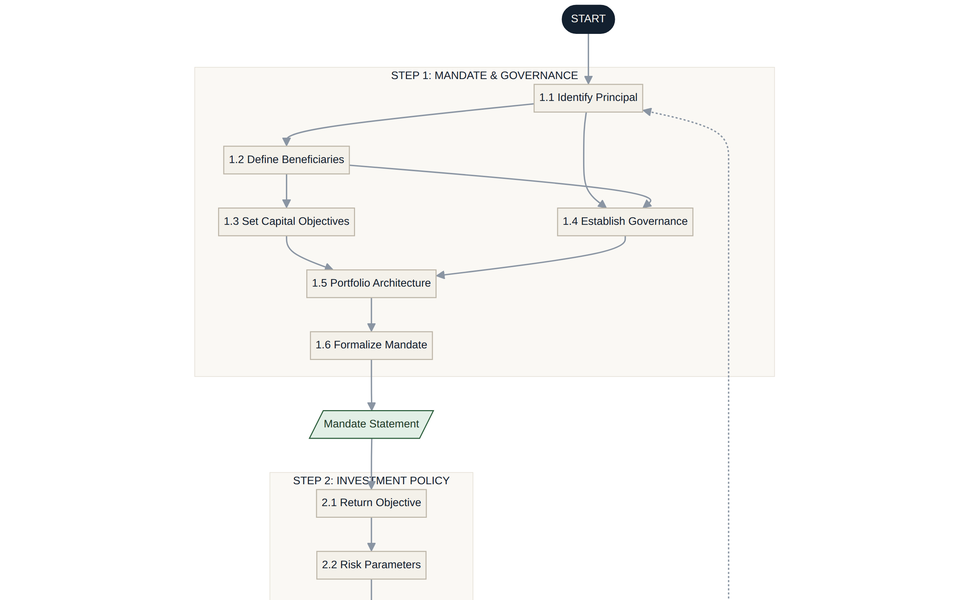
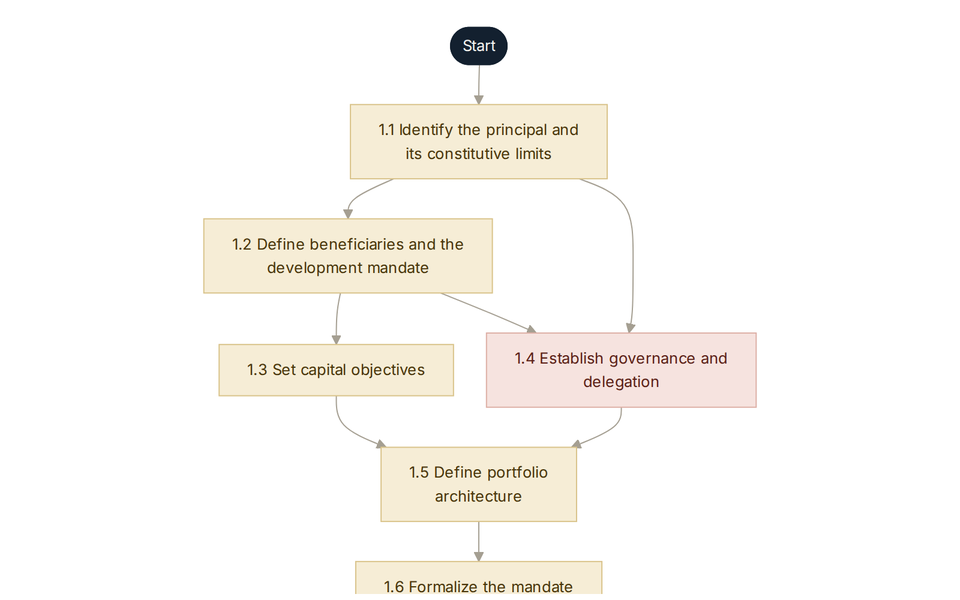
Update the landing page for the v2 maps

diff --git a/index.html b/index.html
@@ -78,23 +78,22 @@ footer p { margin:0; max-width:640px; }
       <div class="eyebrow">Infrastructure, PPPs and portfolio work</div>
       <h1>Investment work, mapped for AI</h1>
       <p class="subtitle">How deals and portfolios actually get done, step by step, with a clear line between what a model can do and what stays with people.</p>
-      <p class="lede">I built these maps at SpaceXAI, where I lead the portfolio management pod. Each one is written so an AI agent can follow it as a skills file. Together they cover more than 500 mapped steps and tasks.</p>
-      <div class="proof"><span class="l">Tested</span>The EM infrastructure portfolio map was turned into a skills file, and a frontier model followed it through most of the process. That design is now the basis of an ongoing SpaceXAI project.</div>
+      <p class="lede">I built these maps at SpaceXAI, where I lead the portfolio management pod. Each one is written so an AI agent can follow it as a skills file. In October 2026 every map was revised against a published standard, with an owner and a citation on every task. Together they cover more than 600 mapped tasks.</p>
+      <div class="proof"><span class="l">Tested</span>The first version of the EM infrastructure portfolio map was turned into a skills file, and a frontier model followed it through most of the process. That design is now the basis of an ongoing SpaceXAI project.</div>
     </div>
     <aside class="split" aria-label="Example of how work is split">
       <div class="k">How each step is classified</div>
-      <h3>Behind one infrastructure IC memo, 231 tasks</h3>
-      <div class="bar" role="img" aria-label="85 model-capable, 82 hybrid, 14 human-only, 27 decision points, 23 skip paths">
-        <i style="flex:85;background:var(--g)"></i><i style="flex:82;background:var(--y)"></i><i style="flex:14;background:var(--r)"></i><i style="flex:27;background:var(--d)"></i><i style="flex:23;background:var(--s)"></i>
+      <h3>Behind one infrastructure IC memo, 216 tasks and 31 decision gates</h3>
+      <div class="bar" role="img" aria-label="70 model-run, 129 model drafts and a person signs, 17 human-only, 31 decision gates">
+        <i style="flex:70;background:var(--g)"></i><i style="flex:129;background:var(--y)"></i><i style="flex:17;background:var(--r)"></i><i style="flex:31;background:var(--d)"></i>
       </div>
       <ul>
-        <li><span class="dot" style="background:var(--g)"></span><span>A model can do it alone</span><b>85</b></li>
-        <li><span class="dot" style="background:var(--y)"></span><span>A model drafts, a person checks</span><b>82</b></li>
-        <li><span class="dot" style="background:var(--r)"></span><span>Stays with people</span><b>14</b></li>
-        <li><span class="dot" style="background:var(--d)"></span><span>Decision points</span><b>27</b></li>
-        <li><span class="dot" style="background:var(--s)"></span><span>Skip paths when a workstream does not apply</span><b>23</b></li>
+        <li><span class="dot" style="background:var(--g)"></span><span>A model runs it, the owner samples the output</span><b>70</b></li>
+        <li><span class="dot" style="background:var(--y)"></span><span>A model drafts, the owner reviews and signs</span><b>129</b></li>
+        <li><span class="dot" style="background:var(--r)"></span><span>Stays with people</span><b>17</b></li>
+        <li><span class="dot" style="background:var(--d)"></span><span>Decision gates, each with a named owner</span><b>31</b></li>
       </ul>
-      <div class="src">From the IC memo production map. The split is a design estimate, not a measured result.</div>
+      <div class="src">From the IC memo production map. The recommendation stays with the deal lead and the committee decides. The split is a design estimate, not a measured result.</div>
     </aside>
   </div>
 
@@ -106,8 +105,8 @@ footer p { margin:0; max-width:640px; }
         <div class="body">
           <div class="k">Investment committee</div>
           <h3>IC memo production</h3>
-          <p>Everything behind an infrastructure investment committee memo, split into legal, financial, technical and ESG, and commercial workstreams.</p>
-          <div class="nums"><span><b>231</b>tasks</span><span><b>27</b>decision points</span><span><b>7</b>sync points</span></div>
+          <p>Everything behind an infrastructure investment committee memo, from integrity screening to the committee decision, mapped against the IFC Performance Standards and the Equator Principles.</p>
+          <div class="nums"><span><b>216</b>tasks</span><span><b>31</b>decision gates</span><span><b>11</b>sync points</span></div>
         </div>
       </a>
       <a class="fc" href="https://mindtensorml.github.io/ppp-bid-pipeline/">
@@ -124,8 +123,8 @@ footer p { margin:0; max-width:640px; }
         <div class="body">
           <div class="k">Emerging markets</div>
           <h3>EM infrastructure portfolio</h3>
-          <p>Running an emerging-market infrastructure portfolio from mandate to watchlist, with screening under the IFC Performance Standards.</p>
-          <div class="nums"><span><b>8</b>steps</span><span><b>5</b>gates</span><span><b>52</b>process nodes</span></div>
+          <p>Running an emerging-market infrastructure portfolio from mandate to watchlist and exit, mapped against the IFC Performance Standards and the Operating Principles for Impact Management.</p>
+          <div class="nums"><span><b>8</b>steps</span><span><b>60</b>tasks</span><span><b>11</b>decision gates</span></div>
         </div>
       </a>
     </div>
@@ -133,20 +132,20 @@ footer p { margin:0; max-width:640px; }
       <a class="mc" href="https://mindtensorml.github.io/financial-modelling/">
         <div class="k">Modeling</div>
         <h3>Financial modeling playbook</h3>
-        <p>Building a model that holds up in review, from scoping and architecture to stress tests and circular references.</p>
-        <div class="n">6 phases · 91 steps · 13 checkpoints</div>
+        <p>Building a model that holds up in independent review, mapped against the ICAEW Financial Modelling Code and the FAST Standard.</p>
+        <div class="n">6 phases · 86 tasks · 18 decision gates</div>
       </a>
       <a class="mc" href="https://mindtensorml.github.io/pm-framework/">
         <div class="k">Portfolio construction</div>
         <h3>Portfolio construction framework</h3>
-        <p>A general process that routes by objective type and selection method, with three tiers of feedback.</p>
-        <div class="n">7 steps · 35 sub-steps · 3 feedback tiers</div>
+        <p>From purpose and the investment policy statement to execution and rebalancing, mapped against CFA Institute guidance and GIPS 2020.</p>
+        <div class="n">7 steps · 55 tasks · 8 decision gates</div>
       </a>
       <a class="mc" href="https://mindtensorml.github.io/pm-rms/">
         <div class="k">Public equities</div>
-        <h3>AI-assisted equity portfolio pilot</h3>
-        <p>A five-week pilot for a US equity value portfolio, from mandate to mock investment committee, using public data only.</p>
-        <div class="n">7 stages · 2 human gates · 5 weeks</div>
+        <h3>AI-assisted value portfolio pilot</h3>
+        <p>A five-week test of where a frontier model helps a US equity value team, with a baseline, pass rules and checks fixed before any model output exists.</p>
+        <div class="n">5 weeks · 79 tasks · 7 decision gates</div>
       </a>
     </div>
   </section>
@@ -155,8 +154,8 @@ footer p { margin:0; max-width:640px; }
     <div class="sh"><div><div class="eyebrow">Method</div><h2>How the maps are made</h2></div></div>
     <div class="steps">
       <div><span class="n">01</span><h4>Map the work as practitioners do it</h4><p>Every step, handoff and check, including the ones nobody writes down.</p></div>
-      <div><span class="n">02</span><h4>Classify each step</h4><p>Decide what a model can do alone, what needs a reviewer, and what stays with people.</p></div>
-      <div><span class="n">03</span><h4>Put the gates where the risk is</h4><p>Go or no-go points sit before money or reputation is committed.</p></div>
+      <div><span class="n">02</span><h4>Anchor it to the standard</h4><p>Each task cites the published standard that speaks to it, or is marked as practitioner practice. An independent check verifies every citation.</p></div>
+      <div><span class="n">03</span><h4>Name an owner and classify</h4><p>Every task and gate has an owner. Each step is tagged for what a model can run, what it drafts for sign-off, and what stays with people.</p></div>
       <div><span class="n">04</span><h4>Write it for an agent</h4><p>Turn the map into a skills file, then check whether a model actually follows it.</p></div>
     </div>
   </section>
